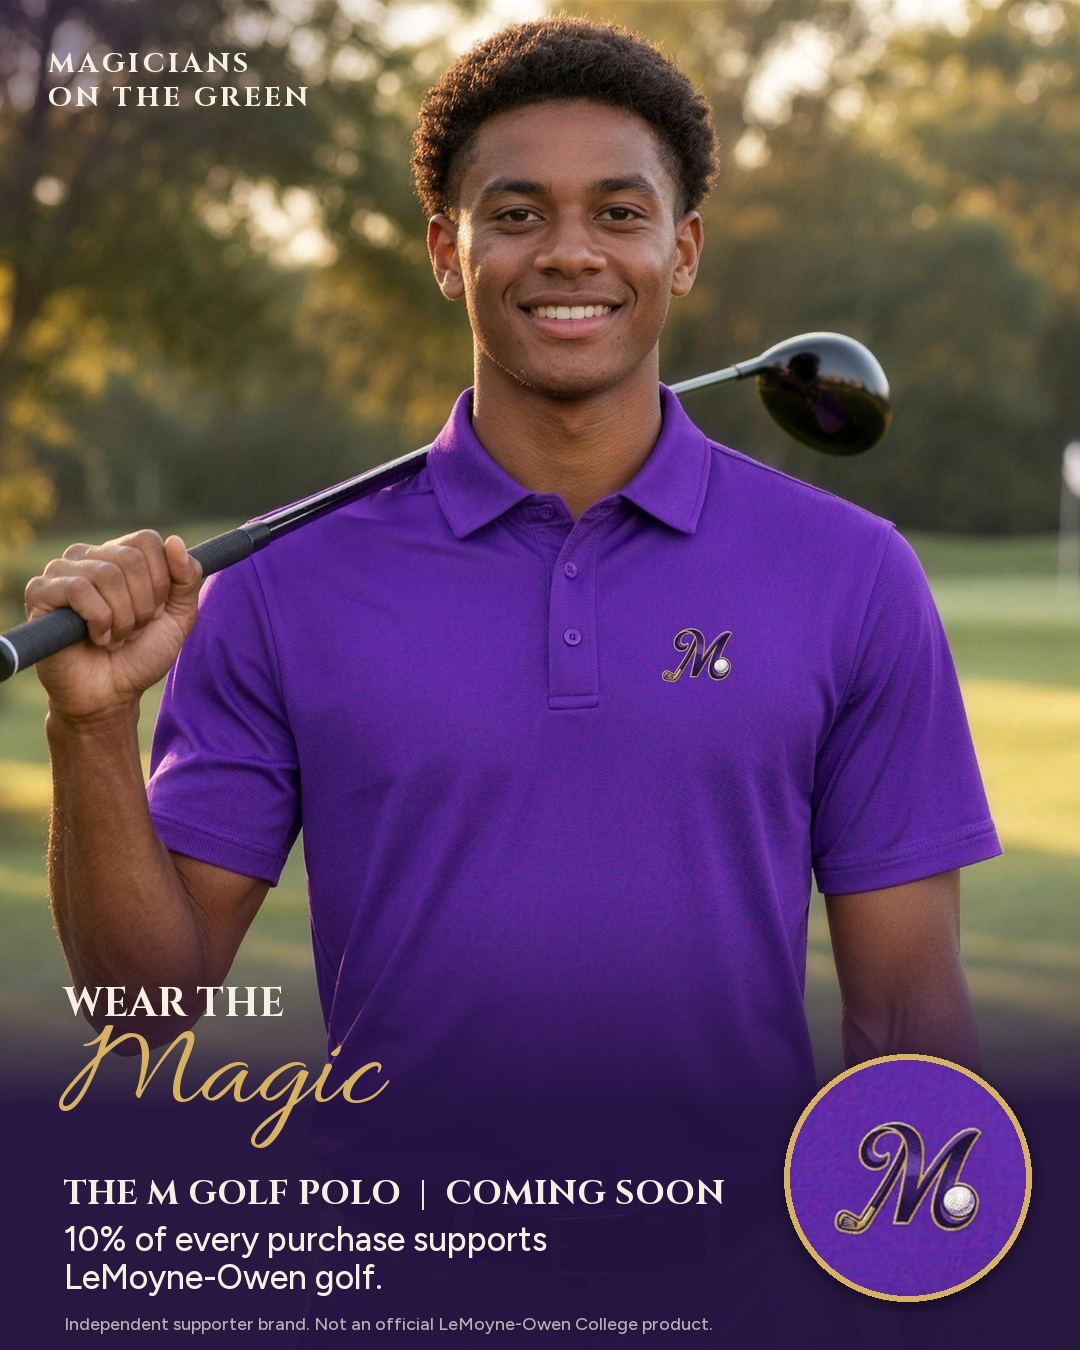
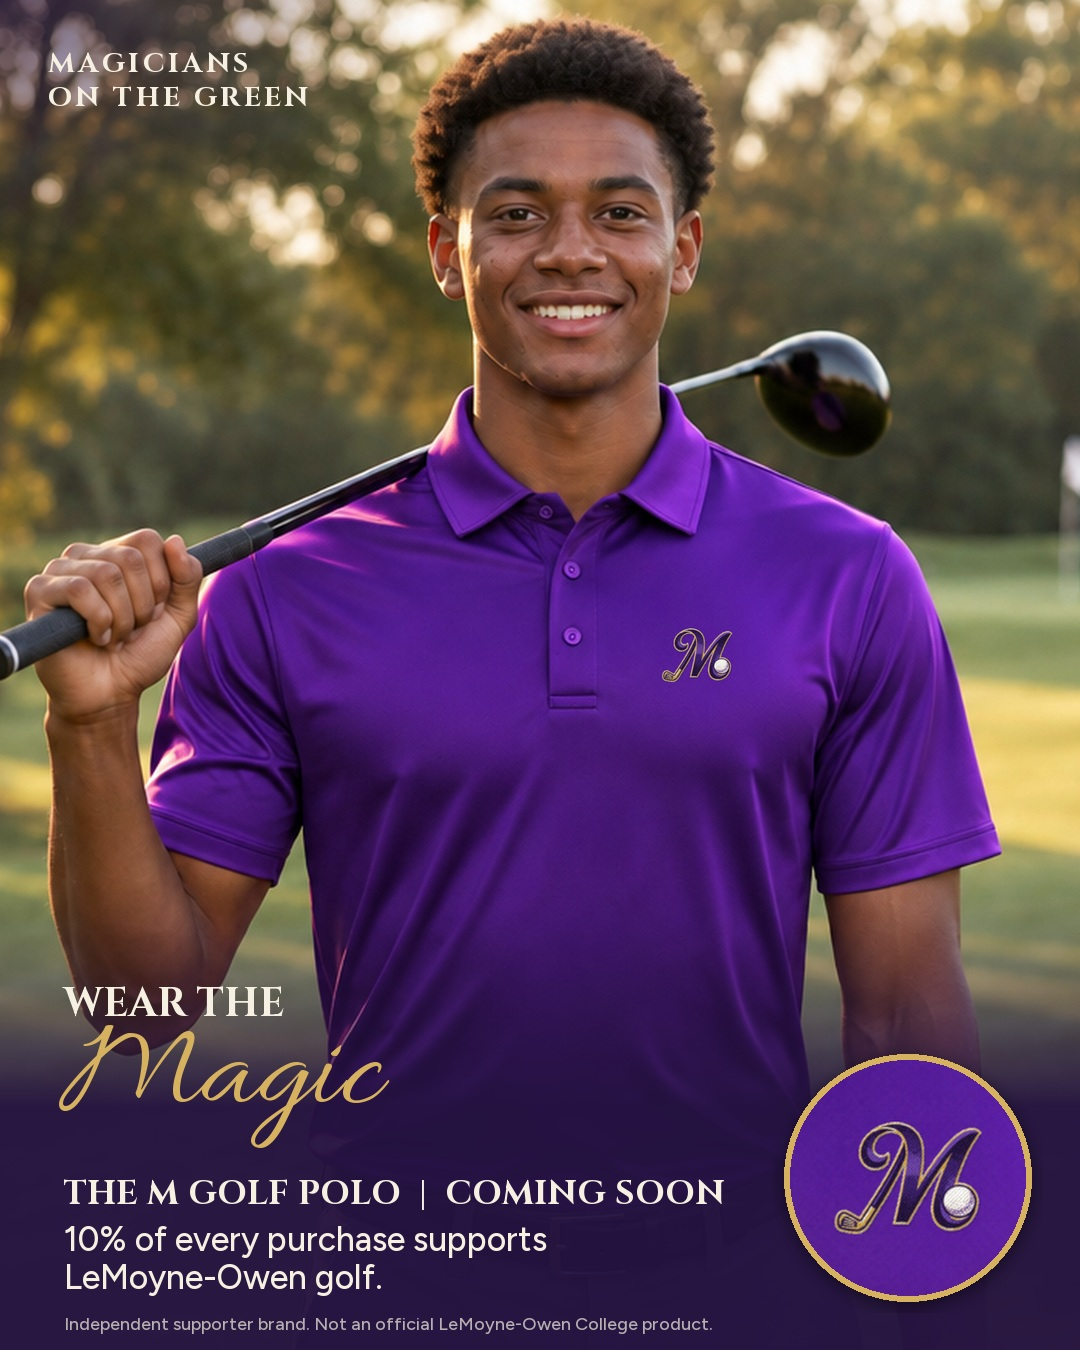
Polo promo ad and model photo in performance fabric; Shopify polo photos swapped to performance set

diff --git a/tools/polo_promo_ad.py b/tools/polo_promo_ad.py
@@ -8,7 +8,7 @@ def font(name,size,w=None):
     return f
 PURPLE=(75,42,127); GOLD=(214,178,96); CREAM=(245,240,225); DEEP=(36,18,64)
 variant=sys.argv[1] if len(sys.argv)>1 else 'launch'
-src=Image.open('gen/r1_logo.png').convert('RGB')   # 2160x2688
+src=Image.open('gen/m1_logo.png').convert('RGB')   # 2160x2688
 k=2160/896
 x0,y0,w=int(80*k),0,int(700*k); h=int(w*1.25)
 im=src.crop((x0,y0,x0+w,y0+h)).resize((1080,1350),Image.LANCZOS)
